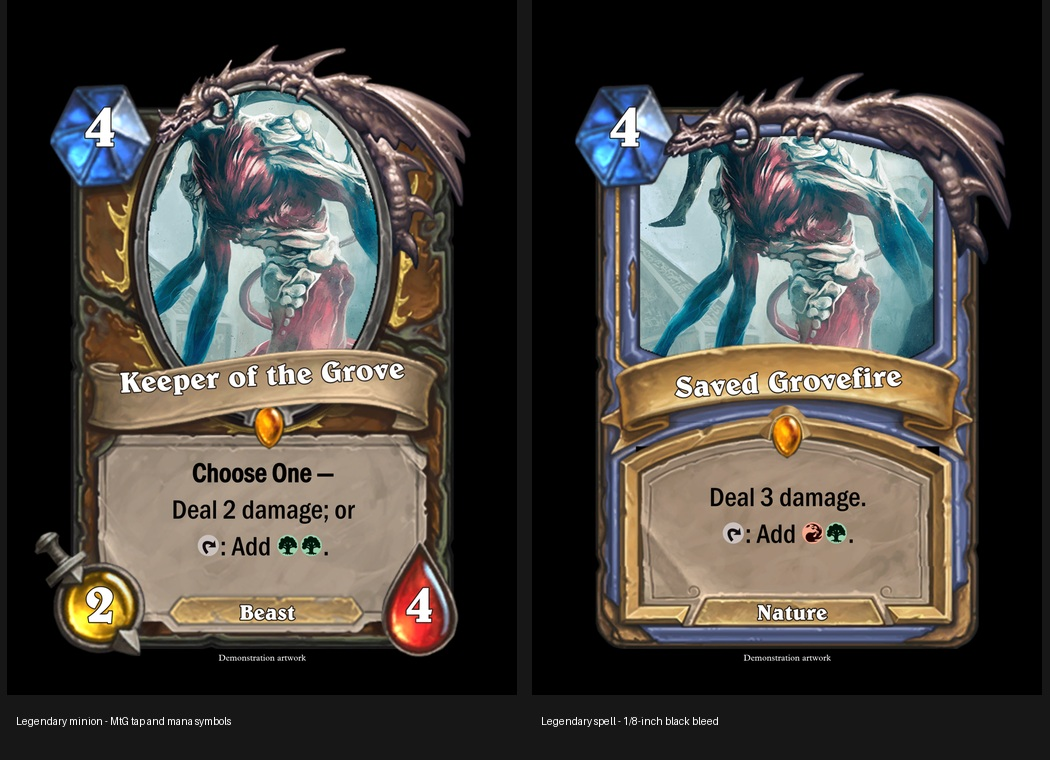
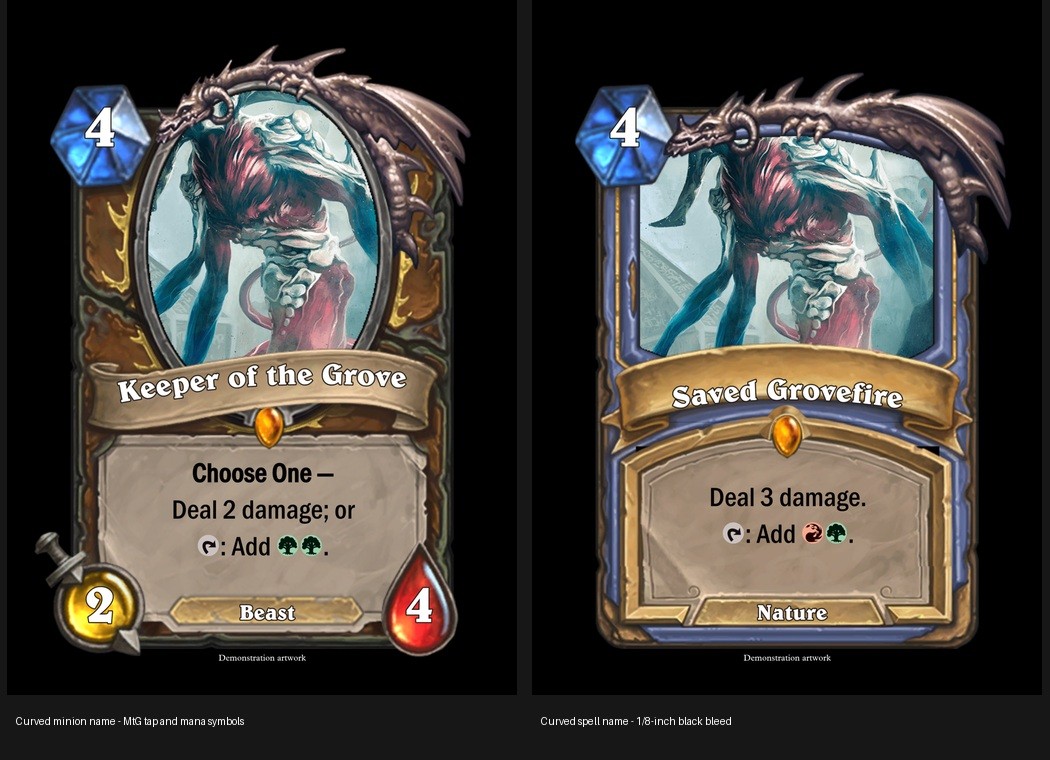
Curve Hearthstone card names to follow their ribbons

diff --git a/js/frames/hearthstone.js b/js/frames/hearthstone.js
@@ -24,6 +24,44 @@ var Hearthstone = window.Hearthstone || (() => {
         }
         return fontPromise;
     }
+    // Bend the normal text renderer's output along the ribbon. Keeping the
+    // initial render preserves its font sizing, outlines and MtG replacements.
+    // Only text boxes explicitly carrying our saved curve metadata use this.
+    const writeFlatText = writeText;
+    const nameCanvas = document.createElement('canvas');
+    writeText = function(textObject, targetContext) {
+        if(!textObject.hearthstoneCurve) return writeFlatText(textObject,targetContext);
+        if(nameCanvas.width!==targetContext.canvas.width || nameCanvas.height!==targetContext.canvas.height) {
+            nameCanvas.width=targetContext.canvas.width;
+            nameCanvas.height=targetContext.canvas.height;
+        }
+        const context=nameCanvas.getContext('2d');
+        context.clearRect(0,0,nameCanvas.width,nameCanvas.height);
+        writeFlatText({...textObject,rotation:0},context);
+        const x=scaleX(textObject.x), y=scaleY(textObject.y);
+        const width=scaleWidth(textObject.width), height=scaleHeight(textObject.height);
+        const rise=scaleHeight(textObject.hearthstoneCurve.rise);
+        const baseline=y+height*0.75;
+        const padding=scaleHeight(textObject.size)*0.5;
+        const top=Math.max(0,Math.floor(y-padding));
+        const bottom=Math.min(nameCanvas.height,Math.ceil(y+height+padding));
+        targetContext.save();
+        targetContext.translate(x,y);
+        targetContext.rotate((textObject.rotation||0)*Math.PI/180);
+        // Thin overlapping slices avoid hairline seams at print resolution.
+        for(let column=0;column<width;column+=2) {
+            const u=(column+1)/width;
+            const offset=rise*Math.pow(2*u-1,2);
+            const slope=4*rise*(2*u-1)/width;
+            targetContext.save();
+            targetContext.translate(column,baseline-y+offset);
+            targetContext.rotate(Math.atan(slope));
+            targetContext.drawImage(nameCanvas,x+column,top,Math.min(3,width-column),bottom-top,
+                0,top-baseline,Math.min(3,width-column),bottom-top);
+            targetContext.restore();
+        }
+        targetContext.restore();
+    };
     const settings = () => {
         const state={...defaults, ...(card.hearthstone || {})};
         if(state.kind && state.kind!==kind) {
@@ -105,7 +143,7 @@ var Hearthstone = window.Hearthstone || (() => {
         const display={font:'hearthstone-title',color:'white',outlineWidth:2/644,outlineColor:'#241c18',oneLine:true,align:'center'};
         const oldPT = !card.text?.power && card.text?.pt?.text.match(/^\s*([^/]+)\/([^/]+)\s*$/);
         const textOptions = {
-            title:box('Title',98,k==='minion'?337:343,302,45,29,{...display,rotation:-3}),
+            title:box('Title',98,k==='minion'?337:343,302,45,29,{...display,rotation:k==='minion'?-3:0,hearthstoneCurve:{rise:(k==='minion'?11:16)/644}}),
             mana:box('Mana cost',45,67,88,75,65,display),
             type:box('Type / tribe',153,572,204,29,21,display),
             rules:box('Rules Text',116,k==='minion'?423:435,270,k==='minion'?124:112,27,{font:'hearthstone-rules',align:'center',justify:'center',lineSpacing:0.05}),
@@ -187,6 +225,11 @@ var Hearthstone = window.Hearthstone || (() => {
         await fonts();
         if(!card.version.startsWith('hearthstone-')) return;
         kind=card.hearthstone?.kind || card.version.slice('hearthstone-'.length);
+        // Upgrade the original straight title while retaining edited placement.
+        if(card.text.title && !card.text.title.hearthstoneCurve) {
+            card.text.title.hearthstoneCurve={rise:(kind==='minion'?11:16)/644};
+            if(kind==='spell' && card.text.title.rotation===-3) card.text.title.rotation=0;
+        }
         // Loading a save must not reset text, component positions, art or margins.
         document.querySelector('#selectFrameGroup').value='Hearthstone';
         showControls();

diff --git a/tests/hearthstone_names_browser.py b/tests/hearthstone_names_browser.py
@@ -1,0 +1,60 @@
+"""Check curved title placement, long-name fitting and legacy save migration.
+Run with the application served at localhost:4242. Requires Playwright/Pillow.
+"""
+import asyncio,base64,io
+from pathlib import Path
+from PIL import Image,ImageDraw
+from playwright.async_api import async_playwright
+async def main():
+ tiles=[];errors=[]
+ async with async_playwright() as p:
+  browser=await p.chromium.launch(executable_path='/usr/bin/chromium',args=['--no-sandbox'])
+  page=await browser.new_page(viewport={'width':1600,'height':1200})
+  page.on('pageerror',lambda e:errors.append(str(e)))
+  await page.goto('http://localhost:4242/',wait_until='domcontentloaded')
+  await page.wait_for_function("typeof card!=='undefined' && card.text")
+  await page.select_option('#selectFrameGroup','Hearthstone')
+  await page.wait_for_function("card.version==='hearthstone-minion'")
+  for kind,pack in [('minion','HearthstoneMinion'),('spell','HearthstoneSpell')]:
+   if kind=='spell':
+    await page.select_option('#selectFramePack',pack)
+    await page.wait_for_function("card.version==='hearthstone-spell'")
+   await page.locator('#hs-bleed').check()
+   await page.click('#hs-build')
+   await page.wait_for_function("!document.getElementById('hs-build').disabled")
+   await page.evaluate('async()=>{await Promise.all(card.frames.map(f=>f.image.decode()));}')
+   for title in ['Ragnaros','Keeper of the Grove','Alexstrasza, Guardian of the Ancient Grove']:
+    await page.evaluate('''async name=>{
+     card.text.title.text=name;clearTimeout(writingText);await drawText();drawFrames();
+    }''',title)
+    bounds=await page.evaluate('''()=>{
+     const c=document.createElement('canvas');c.width=cardCanvas.width;c.height=cardCanvas.height;
+     const ctx=c.getContext('2d');writeText(card.text.title,ctx);
+     const data=ctx.getImageData(0,0,c.width,c.height).data;
+     let left=c.width,right=0,top=c.height,bottom=0;
+     for(let y=0;y<c.height;y++)for(let x=0;x<c.width;x++)if(data[(y*c.width+x)*4+3]>20) {
+      left=Math.min(left,x);right=Math.max(right,x);top=Math.min(top,y);bottom=Math.max(bottom,y);
+     }
+     return {left,right,top,bottom,minX:scaleX(60/460),maxX:scaleX(402/460),minY:scaleY(320/644),maxY:scaleY(402/644)};
+    }''')
+    assert bounds['left']>=bounds['minX'] and bounds['right']<=bounds['maxX'],(title,bounds)
+    assert bounds['top']>=bounds['minY'] and bounds['bottom']<=bounds['maxY'],(title,bounds)
+    raw=base64.b64decode((await page.evaluate('cardCanvas.toDataURL()')).split(',')[1]);im=Image.open(io.BytesIO(raw));w,h=im.size
+    im=im.crop((int(w*.13),int(h*.49),int(w*.87),int(h*.63)));im.thumbnail((800,190),Image.Resampling.LANCZOS)
+    tiles.append((kind,im))
+    print('PASS',kind,title,bounds,flush=True)
+   # Legacy cards acquire the curve without changing edited text placement.
+   assert await page.evaluate('''async()=>{
+    const title=card.text.title;delete title.hearthstoneCurve;const x=title.x+0.01;title.x=x;
+    await Hearthstone.restore();return title.x===x && !!title.hearthstoneCurve;
+   }''')
+  assert not errors,errors
+  await browser.close()
+ board=Image.new('RGB',(840,6*215),'#171717');d=ImageDraw.Draw(board)
+ for i,(kind,im) in enumerate(tiles):
+  board.paste(im,(20,i*215+20));d.text((20,i*215+195),kind,fill='white')
+ output=Path('work/hearthstone-name-verification');output.mkdir(parents=True,exist_ok=True)
+ board.save(output/'curved-names.jpg',quality=94)
+ print('PASS: short/long names fit ribbons; legacy saves retain title placement')
+if __name__=='__main__':
+ asyncio.run(main())

diff --git a/tests/hearthstone_browser.py b/tests/hearthstone_browser.py
@@ -91,6 +91,7 @@ async def main():
         await page.select_option('#selectFrameGroup','Hearthstone')
         await page.wait_for_function("card.version === 'hearthstone-minion'")
         await build(page)
+        assert await page.evaluate('card.text.title.hearthstoneCurve.rise>0')
         await page.evaluate(r'''async source => {
             uploadArt(source,'autoFit');await art.decode();autoFitArt();
             card.text.title.text='Keeper of the Grove';

diff --git a/docs/hearthstone.md b/docs/hearthstone.md
@@ -17,7 +17,7 @@ oval portrait and `minion-dragon`; spells use the spell surround and
 uncheck it before building, or remove its layer afterwards.
 
 **Text** provides Title, Mana cost, Type / tribe (for example Beast or Nature),
-Rules Text and, for minions, separate Power and Toughness fields. Cost and stats
+Rules Text and, for minions, separate Power and Toughness fields. Names follow the curve of the minion or spell ribbon; normal text formatting and automatic shrinking for long names still apply. Existing Hearthstone saves acquire the curved title when reopened. Cost and stats
 accept plain numbers. Rules use the standard Card Conjurer replacement engine:
 `{t}`, `{untap}`, `{w}`, `{u}`, `{b}`, `{r}`, `{g}`, hybrid mana, `{bold}…{/bold}`,
 italics and other normal commands remain available. Existing title, cost, type,
@@ -87,3 +87,7 @@ Browser screenshots: [minion editor](images/hearthstone-editor-minion.png),
 [mobile controls](images/hearthstone-mobile-controls.png),
 [all minion classes](images/hearthstone-minion-classes.jpg),
 [all spell classes](images/hearthstone-spell-classes.jpg).
+
+Curved-name checks: `python tests/hearthstone_names_browser.py` verifies short and
+long names stay inside both ribbons, and that upgrading an older save retains
+its edited title placement. [Name screenshots](images/hearthstone-curved-names.jpg).
